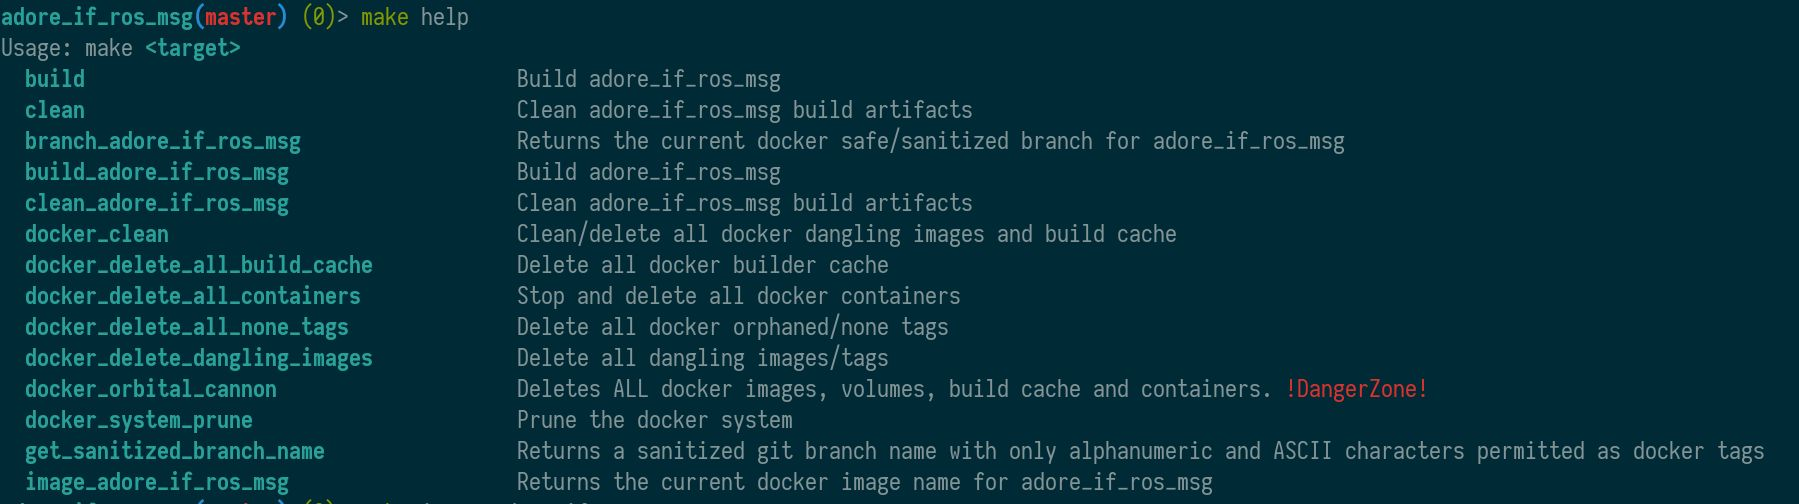
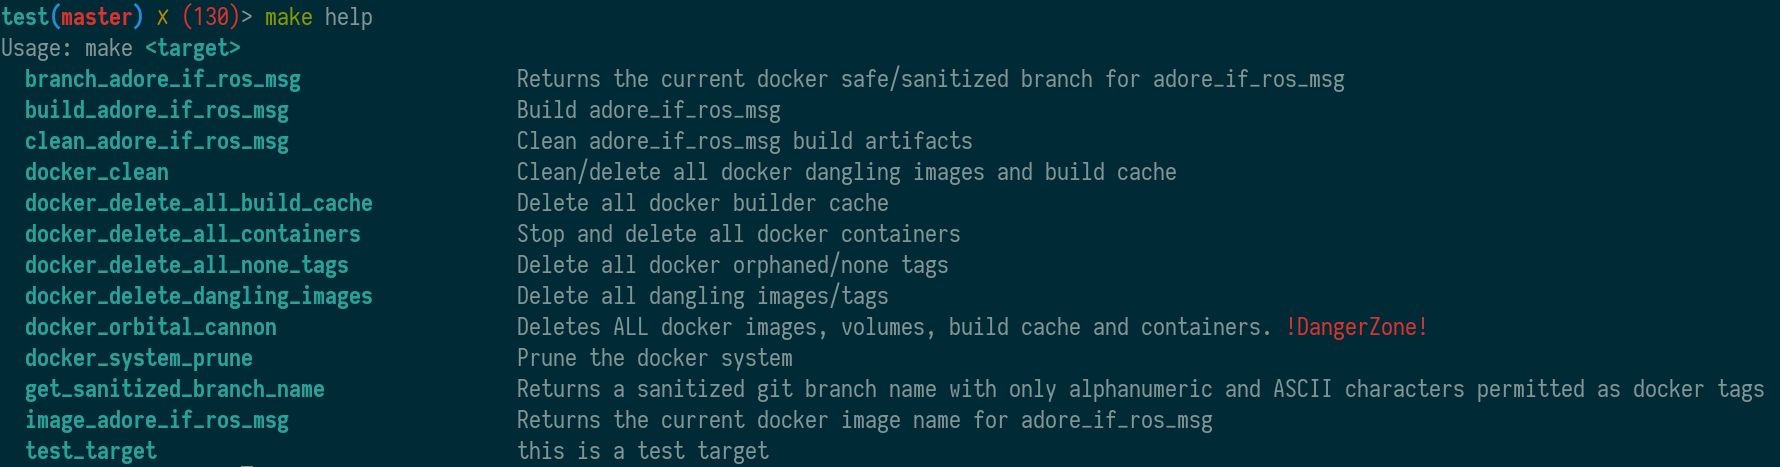
updated documentation

Changed region(s): [[0.2781, 0.1199, 0.9888, 0.9893], [0.0, 0.0, 0.2781, 1.0]]

diff --git a/documentation/technical_documentation/system_and_development/build_system.md b/documentation/technical_documentation/system_and_development/build_system.md
@@ -98,7 +98,9 @@ In general every module will produce at least a build docker image. If a module
 requires a runtime context or other contexts these will be generated as well.
 For example on the module libadore located at https://github.com/DLR-TS/
 produces the following images:
+
 ![Libadore Docker Images](images/libadore_docker_image_ls.jpg)
+
 In the case of libadore there is a docker context for build with will contain
 only the build artifacts, a test context which can be used to execute unit tests
 and the main context. What docker images/contexts are produced with make build
@@ -148,33 +150,95 @@ Makefile:
 
 ![Example Makefile with documented target](images/make_help_makefile.jpg)
 
-Calling make help on would then yield the following on this example module:
+will output the comment and target name with the invocation of `make help` 
+
+Calling `make help` on would then yield the following on this example module:
+
 ![Example make help output](images/make_help.jpg)
 
 As can be seen in the previous image the make_gadgets project also provides
-another important recipe/target that is used throughout the ADORe ecosystem 
-specifically the "get_sanitized_branch_name". Calling this target returns the
-branch name or hash that has been sanitized such that it can be used as a docker
-image tag. This will be further detailed in a later section.
+another  very important recipe/target that is used throughout the ADORe 
+ecosystem specifically the "get_sanitized_branch_name". Calling this target 
+returns the branch name or hash that has been sanitized such that it can be 
+used as a docker image tag. This will be further detailed in a later section.
 
 For more information on how the help target works please review the 
-documentation for https://github.com/DLR-TS/make_gadgets or the gist at 
+documentation for
+https://github.com/DLR-TS/make_gadgets or the gist at 
 https://gist.github.com/prwhite/8168133
+
+The Makefile provides the primary means to interact with a module directly by 
+navigating to a module and running make commands on the module. 
 
 
 #### Dockerfile
 The Dockerfile is pretty self-explanatory and in general every module will have
 a Dockerfile in its root. More dockerfile may be provided by a module if 
-necessary depending if the module also requires runtime context.  
+necessary depending if the module also requires runtime context. If there are
+many docker files within a module then they can be organized in a subdirectory 
+called 'docker'. GNU Make is used primarily to invoke `docker` or 
+`docker compose` within ADORe.
 
-#### Interface makefile <modulename>.mk
-There are some targets or recipes that are only relevant to the module itself.
+#### Interface makefile <module name>.mk
+Many modules within adore have two makefiles namely 'Makefile' and 
+'<module name>.mk'. The first makefile ('Makefile') allows make commands to be
+run directly on the module by navigating to the module directory and running 
+for example `make build` or `make clean`. 
 
+The second makefile having the same name of the module itself (for example in 
+adore_if_ros_msg: adore_if_ros_msg.mk) acts as the external interface for the 
+module.  The basic question for this makefile is what behavior, context, and 
+environmental variables should be exported from the module.  
+This makefile will include the following:
+- Important environmental variables for the module (such as docker tag) 
+- All the necessary make includes (does the module depend on other modules?)
+- All targets that should be externally visible to downstream projects
+
+The self-named makefile included in each module is the external interface for
+the module. 
+
+Take this minimal example makefile which includes adore_if_ros_msg.mk:
+```Makefile
+include make_gadgets/make_gadgets.mk
+include adore_if_ros_msg/adore_if_ros_msg.mk
+
+.PHONY: test_target
+test_target: ## this is a test target
+        echo "Hello, World!"
+```
+
+By including adore_if_ros_msg.mk all of the exported targets are now available.
+Calling `make help` now on this example Makefile yields the following output:
+
+![Example make help output with adore_if_ros_msg.mk included](images/adore_if_ros_msg_help.jpg)
+
+This allows composition of modules.
+
+The self-named makefile previous discussed also provides a number of important 
+dynamic environmental variables which follow the basic form: 
+```text
 <module name>_PROJECT
 <module name>_MAKEFILE_PATH
 <module name>_SUBMODULES_PATH
 <module name>_TAG
 <module name>_IMAGE
+```
+
+For example in the module adore_if_ros_msg the following environmental variables
+are provided:
+```text
+ADORE_IF_ROS_MSG_IMAGE= ${ADORE_IF_ROS_MSG_PROJECT}:${ADORE_IF_ROS_MSG_TAG}
+ADORE_IF_ROS_MSG_MAKEFILE_PATH= /home/akoerner/repos/csa/github.com/eclipse/test/adore_if_ros_msg
+ADORE_IF_ROS_MSG_PROJECT= adore_if_ros_msg
+ADORE_IF_ROS_MSG_SUBMODULES_PATH= /home/akoerner/repos/csa/github.com/eclipse/test/adore_if_ros_msg
+ADORE_IF_ROS_MSG_TAG= master
+```
+
+The environmental variables that a module provides is up to the module but the
+previously detailed variables are common.  The most important variable being the 
+`<module name>_IMAGE`, `<module name>_PROJECT`, and `<module name>_TAG`
+variables which all relevant for docker image tagging. 
+
 
 
 #### 'files' directory
